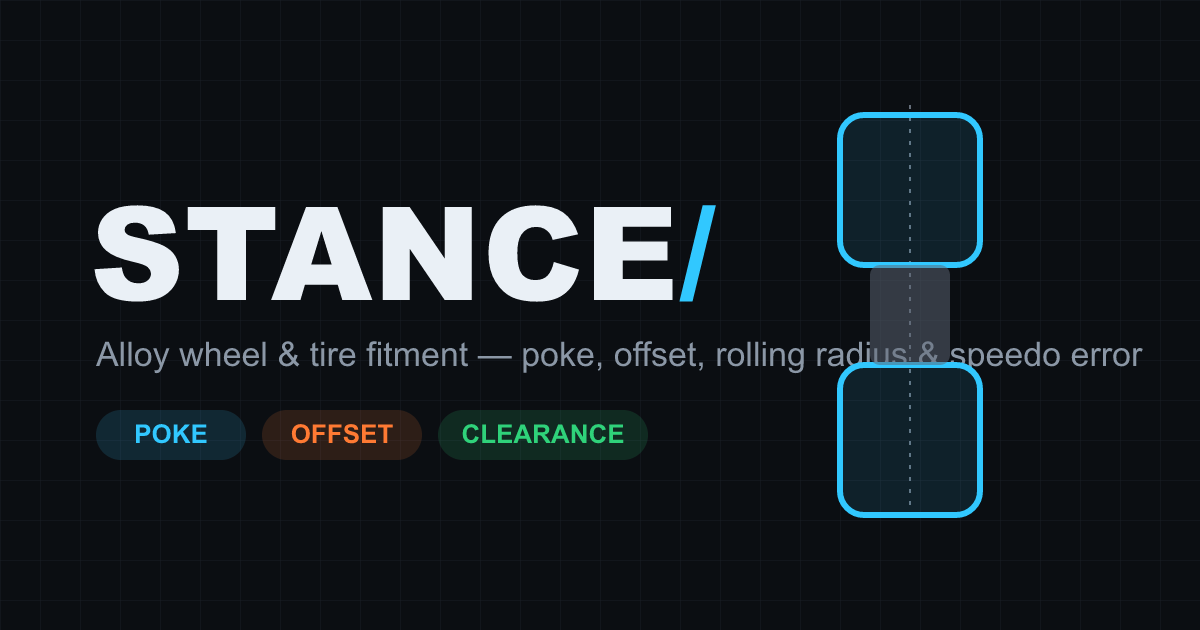
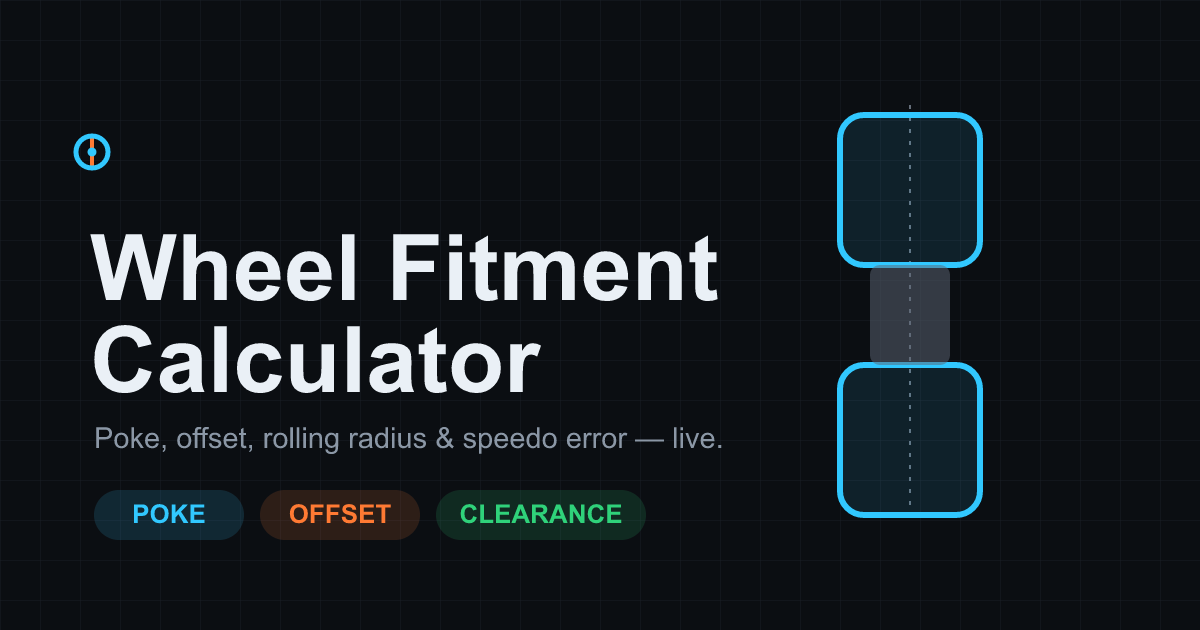
De-brand: replace STANCE wordmark with plain "Wheel Fitment Calculator"
Owner decision — keep scope to just the calculator, kept utilitarian; drop the
flashy STANCE brand and the visualizer endgame.

- Header: quiet system-sans title + small wheel glyph, dropping the condensed
  uppercase STANCE wordmark and cyan slash
- Title/OG/Twitter/JSON-LD name: STANCE removed, plain descriptive name
- Body/FAQ copy: "STANCE" as a product subject reworded to "This calculator"/"It"
- og-image.svg/png: redesigned with a plain two-line title, re-rendered 1200x630
- README + llms.txt titles de-branded
- CLAUDE.md: naming/direction note (visualizer shelved), design-system + roadmap updates

Changed region(s): [[0.0617, 0.5127, 0.9558, 0.8746], [0.0617, 0.3016, 0.6167, 0.4825], [0.0617, 0.2111, 0.0925, 0.2714]]

diff --git a/index.html b/index.html
@@ -4,25 +4,25 @@
 <meta name="viewport" content="width=device-width, initial-scale=1">
 <meta name="description" content="Free wheel &amp; tire fitment calculator. Compare two setups and see poke, offset (ET), inset, rolling diameter, ride-height change and speedometer error update live.">
 <meta name="robots" content="index, follow, max-image-preview:large">
-<title>Wheel &amp; Tire Fitment Calculator — Poke, Offset &amp; Speedo | STANCE</title>
+<title>Wheel &amp; Tire Fitment Calculator — Poke, Offset &amp; Speedo Error</title>
 <link rel="canonical" href="https://wheelfitmentcalculator.com/">
 <link rel="icon" href="/favicon.svg" type="image/svg+xml">
 <meta name="theme-color" content="#0b0e12" media="(prefers-color-scheme: dark)">
 <meta name="theme-color" content="#e9edf2" media="(prefers-color-scheme: light)">
 <meta property="og:type" content="website">
-<meta property="og:site_name" content="STANCE">
-<meta property="og:title" content="STANCE — Wheel &amp; Tire Fitment Calculator">
+<meta property="og:site_name" content="Wheel Fitment Calculator">
+<meta property="og:title" content="Wheel &amp; Tire Fitment Calculator">
 <meta property="og:description" content="Compare two wheel setups and see poke, offset (ET), inset, rolling diameter, ride-height change and speedometer error update live.">
 <meta property="og:url" content="https://wheelfitmentcalculator.com/">
 <meta property="og:image" content="https://wheelfitmentcalculator.com/og-image.png">
 <meta property="og:image:width" content="1200">
 <meta property="og:image:height" content="630">
-<meta property="og:image:alt" content="STANCE wheel and tire fitment calculator — cross-section diagram showing poke, offset and clearance.">
+<meta property="og:image:alt" content="Wheel and tire fitment calculator — cross-section diagram showing poke, offset and clearance.">
 <meta name="twitter:card" content="summary_large_image">
-<meta name="twitter:title" content="STANCE — Wheel &amp; Tire Fitment Calculator">
+<meta name="twitter:title" content="Wheel &amp; Tire Fitment Calculator">
 <meta name="twitter:description" content="Compare two wheel setups and see poke, offset (ET), inset, rolling diameter, ride-height change and speedometer error update live.">
 <meta name="twitter:image" content="https://wheelfitmentcalculator.com/og-image.png">
-<meta name="twitter:image:alt" content="STANCE wheel and tire fitment calculator preview.">
+<meta name="twitter:image:alt" content="Wheel and tire fitment calculator preview.">
 <style>
   :root {
     --ground: #0b0e12; --surface: #141922; --surface-2: #1b212c; --line: #28303b; --line-soft: #1e2530;
@@ -70,10 +70,11 @@
   .wrap { max-width: 1120px; margin: 0 auto; padding: 28px 20px 64px; }
 
   header { display: flex; align-items: flex-end; justify-content: space-between; gap: 16px; flex-wrap: wrap; margin-bottom: 22px; }
-  .brand { display: flex; align-items: baseline; gap: 12px; }
-  .wordmark { font-family: var(--font-cond); font-weight: 800; text-transform: uppercase; letter-spacing: 0.02em; font-size: clamp(34px, 7vw, 52px); line-height: 0.9; margin: 0; }
-  .wordmark .slash { color: var(--new); }
-  .tagline { color: var(--ink-dim); font-size: 13px; max-width: 34ch; letter-spacing: 0.01em; }
+  .brand { display: flex; align-items: center; gap: 13px; }
+  .brand-mark { width: 34px; height: 34px; flex: none; }
+  .brand-text { display: flex; flex-direction: column; gap: 3px; }
+  .site-title { font-family: var(--font-ui); font-weight: 700; font-size: clamp(20px, 3.4vw, 26px); letter-spacing: -0.01em; line-height: 1.05; margin: 0; color: var(--ink); }
+  .tagline { color: var(--ink-dim); font-size: 13px; max-width: 48ch; letter-spacing: 0.01em; }
   .tagline strong { color: var(--ink); font-weight: 600; }
   .head-actions { display: flex; gap: 8px; align-items: center; flex-wrap: wrap; }
 
@@ -192,7 +193,7 @@
 
   /* accessibility / heading resets */
   .sr-only { position: absolute; width: 1px; height: 1px; padding: 0; margin: -1px; overflow: hidden; clip: rect(0,0,0,0); white-space: nowrap; border: 0; }
-  h1.wordmark, h2.card-title { margin: 0; }
+  h2.card-title { margin: 0; }
   h2.gloss-head { margin: 0 0 12px; }
 
   /* long-form content sections (SEO / AEO copy) */
@@ -226,8 +227,15 @@
 <div class="wrap">
   <header>
     <div class="brand">
-      <h1 class="wordmark">Stance<span class="slash">/</span><span class="sr-only"> — free wheel &amp; tire fitment calculator</span></h1>
-      <p class="tagline"><strong>Alloy wheel &amp; tire fitment.</strong> Poke, clearance, rolling radius &amp; speedometer error — live as you dial it in.</p>
+      <svg class="brand-mark" viewBox="0 0 32 32" aria-hidden="true" focusable="false">
+        <line x1="16" y1="4" x2="16" y2="28" stroke="var(--existing)" stroke-width="2.2"/>
+        <circle cx="16" cy="16" r="8.5" fill="none" stroke="var(--new)" stroke-width="3"/>
+        <circle cx="16" cy="16" r="2.2" fill="var(--new)"/>
+      </svg>
+      <div class="brand-text">
+        <h1 class="site-title">Wheel Fitment Calculator</h1>
+        <p class="tagline">Compare two setups — poke, clearance, rolling radius &amp; speedometer error, live as you dial it in.</p>
+      </div>
     </div>
     <div class="head-actions">
       <div class="seg" id="units" role="group" aria-label="Units">
@@ -322,7 +330,7 @@
   <div class="content">
     <section class="panel prose" id="how">
       <h2>How the wheel &amp; tire fitment calculator works</h2>
-      <p class="lead">STANCE compares two wheel-and-tire setups and shows exactly how the new one changes your car's stance, clearance and speedometer reading. Every number updates live from standard fitment geometry — no guesswork. Here are the formulas it uses (lengths in millimeters; 1 inch = 25.4 mm). Outside North America a tire is spelled <em>tyre</em>, but the math is identical.</p>
+      <p class="lead">This calculator compares two wheel-and-tire setups and shows exactly how the new one changes your car's stance, clearance and speedometer reading. Every number updates live from standard fitment geometry — no guesswork. Here are the formulas it uses (lengths in millimeters; 1 inch = 25.4 mm). Outside North America a tire is spelled <em>tyre</em>, but the math is identical.</p>
 
       <h3>Poke and inset — how far the wheel sits out or in</h3>
       <div class="formula"><b>Poke</b> = (rim width in inches × 25.4 ÷ 2) − offset (ET)</div>
@@ -333,7 +341,7 @@
       <div class="formula"><b>Rolling diameter</b> = (rim diameter in inches × 25.4) + 2 × (tire width × profile ÷ 100)</div>
       <div class="formula"><b>Rolling radius</b> = rolling diameter ÷ 2 &nbsp;·&nbsp; <b>Circumference</b> = rolling diameter × π</div>
       <p>A tire's profile (aspect ratio) is its sidewall height as a percentage of its section width, so a 225/45 tire has a sidewall of 225 × 0.45 = 101.25 mm.</p>
-      <p class="note-inline">STANCE uses the standard rolling-diameter formula (rim + twice the sidewall). It does <strong>not</strong> apply a tire-stretch adjustment, so overall-diameter figures can differ by a few millimeters from a heavily stretched fitment. Poke, inset, offset, ride-height and speedometer figures are exact.</p>
+      <p class="note-inline">This calculator uses the standard rolling-diameter formula (rim + twice the sidewall). It does <strong>not</strong> apply a tire-stretch adjustment, so overall-diameter figures can differ by a few millimeters from a heavily stretched fitment. Poke, inset, offset, ride-height and speedometer figures are exact.</p>
 
       <h3>Ride-height change</h3>
       <div class="formula"><b>Ride-height change</b> = (new rolling diameter − old rolling diameter) ÷ 2</div>
@@ -354,7 +362,7 @@
         </details>
         <details class="faq-item">
           <summary>What is wheel poke?</summary>
-          <div class="faq-a"><p>Poke is how far the outer face of the wheel and tire sticks out past the hub mounting face. More poke gives a more aggressive stance but raises the chance of the tire catching the fender. STANCE calculates it as <code>poke = (rim width in inches × 25.4 ÷ 2) − offset (ET)</code>.</p></div>
+          <div class="faq-a"><p>Poke is how far the outer face of the wheel and tire sticks out past the hub mounting face. More poke gives a more aggressive stance but raises the chance of the tire catching the fender. It's calculated as <code>poke = (rim width in inches × 25.4 ÷ 2) − offset (ET)</code>.</p></div>
         </details>
         <details class="faq-item">
           <summary>What does offset (ET) mean?</summary>
@@ -362,7 +370,7 @@
         </details>
         <details class="faq-item">
           <summary>What's the difference between offset and backspacing (inset)?</summary>
-          <div class="faq-a"><p>Offset is measured from the wheel's centerline, while inset — also called backspacing — is measured from the inner lip and tells you how much room the wheel needs before it hits the strut, spring or control arm. STANCE shows both at once so you can check outer stance and inner clearance together.</p></div>
+          <div class="faq-a"><p>Offset is measured from the wheel's centerline, while inset — also called backspacing — is measured from the inner lip and tells you how much room the wheel needs before it hits the strut, spring or control arm. This calculator shows both at once so you can check outer stance and inner clearance together.</p></div>
         </details>
         <details class="faq-item">
           <summary>How does tire size affect my speedometer?</summary>
@@ -370,7 +378,7 @@
         </details>
         <details class="faq-item">
           <summary>What is tire stretch, and does this calculator account for it?</summary>
-          <div class="faq-a"><p>Tire stretch is mounting a narrower tire on a wider rim so the sidewall pulls inward at an angle. STANCE uses the standard rolling-diameter formula (rim + twice the sidewall) and does not model stretch, so overall-diameter numbers can differ by a few millimeters on a heavily stretched setup. Poke, inset, offset, ride-height and speedometer figures are unaffected and exact.</p></div>
+          <div class="faq-a"><p>Tire stretch is mounting a narrower tire on a wider rim so the sidewall pulls inward at an angle. This calculator uses the standard rolling-diameter formula (rim + twice the sidewall) and does not model stretch, so overall-diameter numbers can differ by a few millimeters on a heavily stretched setup. Poke, inset, offset, ride-height and speedometer figures are unaffected and exact.</p></div>
         </details>
         <details class="faq-item">
           <summary>How do I calculate rolling diameter and rolling radius?</summary>
@@ -378,11 +386,11 @@
         </details>
         <details class="faq-item">
           <summary>Will bigger wheels change my ride height?</summary>
-          <div class="faq-a"><p>Only overall rolling diameter changes ride height, not rim size on its own. If you go up an inch in wheel but drop the tire profile to keep the same rolling diameter ("plus sizing"), ride height stays the same. STANCE reports the ride-height change as half the difference in rolling diameter between your two setups.</p></div>
+          <div class="faq-a"><p>Only overall rolling diameter changes ride height, not rim size on its own. If you go up an inch in wheel but drop the tire profile to keep the same rolling diameter ("plus sizing"), ride height stays the same. This calculator reports the ride-height change as half the difference in rolling diameter between your two setups.</p></div>
         </details>
         <details class="faq-item">
           <summary>Is this wheel fitment calculator free?</summary>
-          <div class="faq-a"><p>Yes. STANCE is a free, browser-based wheel and tire fitment calculator with no sign-up and no app to install. It works on desktop and mobile, in metric or imperial units, and nothing you enter ever leaves your browser.</p></div>
+          <div class="faq-a"><p>Yes. This is a free, browser-based wheel and tire fitment calculator with no sign-up and no app to install. It works on desktop and mobile, in metric or imperial units, and nothing you enter ever leaves your browser.</p></div>
         </details>
         <details class="faq-item">
           <summary>Does it work in inches and metric?</summary>
@@ -410,7 +418,7 @@
 {
   "@context": "https://schema.org",
   "@type": "WebApplication",
-  "name": "STANCE — Wheel & Tire Fitment Calculator",
+  "name": "Wheel & Tire Fitment Calculator",
   "url": "https://wheelfitmentcalculator.com/",
   "description": "Free wheel and tire fitment calculator. Compare two setups and see poke, offset (ET), inset, rolling diameter, ride-height change and speedometer error update live, with a technical cross-section diagram.",
   "applicationCategory": "UtilitiesApplication",
@@ -437,12 +445,12 @@
     { "@type": "Question", "name": "Will these wheels fit my car?", "acceptedAnswer": { "@type": "Answer", "text": "This calculator estimates how a new wheel and tire setup changes poke, inner clearance, rolling diameter and speedometer accuracy versus your current setup — the fastest way to compare two fitments side by side. It can't guarantee a fit on its own: real-world clearance also depends on your bolt pattern, center bore, suspension, camber, fender rolling and ride height. Always confirm those, plus the tire's load rating, before buying." } },
     { "@type": "Question", "name": "What is wheel poke?", "acceptedAnswer": { "@type": "Answer", "text": "Poke is how far the outer face of the wheel and tire sticks out past the hub mounting face. More poke gives a more aggressive stance but raises the chance of the tire catching the fender. It is calculated as poke = (rim width in inches × 25.4 ÷ 2) − offset (ET)." } },
     { "@type": "Question", "name": "What does offset (ET) mean?", "acceptedAnswer": { "@type": "Answer", "text": "Offset, stamped ET on a wheel, is the distance in millimeters between the wheel's mounting face and its true centerline. A higher ET tucks the wheel further under the car; a lower or negative ET pushes it outward for more poke. Offset is the single biggest factor in how a wheel sits in the arch." } },
-    { "@type": "Question", "name": "What's the difference between offset and backspacing (inset)?", "acceptedAnswer": { "@type": "Answer", "text": "Offset is measured from the wheel's centerline, while inset — also called backspacing — is measured from the inner lip and tells you how much room the wheel needs before it hits the strut, spring or control arm. STANCE shows both at once so you can check outer stance and inner clearance together." } },
+    { "@type": "Question", "name": "What's the difference between offset and backspacing (inset)?", "acceptedAnswer": { "@type": "Answer", "text": "Offset is measured from the wheel's centerline, while inset — also called backspacing — is measured from the inner lip and tells you how much room the wheel needs before it hits the strut, spring or control arm. This calculator shows both at once so you can check outer stance and inner clearance together." } },
     { "@type": "Question", "name": "How does tire size affect my speedometer?", "acceptedAnswer": { "@type": "Answer", "text": "Your speedometer is calibrated to the rolling circumference of the original tire. A larger-diameter tire covers more ground per revolution, so the car goes faster than the speedometer reads; a smaller tire makes it read high. The calculator shows the exact speedometer error percentage and your true speed at any indicated speed." } },
-    { "@type": "Question", "name": "What is tire stretch, and does this calculator account for it?", "acceptedAnswer": { "@type": "Answer", "text": "Tire stretch is mounting a narrower tire on a wider rim so the sidewall pulls inward at an angle. STANCE uses the standard rolling-diameter formula (rim + twice the sidewall) and does not model stretch, so overall-diameter numbers can differ by a few millimeters on a heavily stretched setup. Poke, inset, offset, ride-height and speedometer figures are unaffected and exact." } },
+    { "@type": "Question", "name": "What is tire stretch, and does this calculator account for it?", "acceptedAnswer": { "@type": "Answer", "text": "Tire stretch is mounting a narrower tire on a wider rim so the sidewall pulls inward at an angle. This calculator uses the standard rolling-diameter formula (rim + twice the sidewall) and does not model stretch, so overall-diameter numbers can differ by a few millimeters on a heavily stretched setup. Poke, inset, offset, ride-height and speedometer figures are unaffected and exact." } },
     { "@type": "Question", "name": "How do I calculate rolling diameter and rolling radius?", "acceptedAnswer": { "@type": "Answer", "text": "Rolling diameter = (rim diameter in inches × 25.4) + 2 × (tire width × profile ÷ 100), and rolling radius is half of that. For example, a 225/45 R17 tire measures 17 × 25.4 + 2 × (225 × 0.45) = 431.8 + 202.5 = 634.3 mm in diameter." } },
-    { "@type": "Question", "name": "Will bigger wheels change my ride height?", "acceptedAnswer": { "@type": "Answer", "text": "Only overall rolling diameter changes ride height, not rim size on its own. If you go up an inch in wheel but drop the tire profile to keep the same rolling diameter (plus sizing), ride height stays the same. STANCE reports the ride-height change as half the difference in rolling diameter between your two setups." } },
-    { "@type": "Question", "name": "Is this wheel fitment calculator free?", "acceptedAnswer": { "@type": "Answer", "text": "Yes. STANCE is a free, browser-based wheel and tire fitment calculator with no sign-up and no app to install. It works on desktop and mobile, in metric or imperial units, and nothing you enter ever leaves your browser." } },
+    { "@type": "Question", "name": "Will bigger wheels change my ride height?", "acceptedAnswer": { "@type": "Answer", "text": "Only overall rolling diameter changes ride height, not rim size on its own. If you go up an inch in wheel but drop the tire profile to keep the same rolling diameter (plus sizing), ride height stays the same. This calculator reports the ride-height change as half the difference in rolling diameter between your two setups." } },
+    { "@type": "Question", "name": "Is this wheel fitment calculator free?", "acceptedAnswer": { "@type": "Answer", "text": "Yes. This is a free, browser-based wheel and tire fitment calculator with no sign-up and no app to install. It works on desktop and mobile, in metric or imperial units, and nothing you enter ever leaves your browser." } },
     { "@type": "Question", "name": "Does it work in inches and metric?", "acceptedAnswer": { "@type": "Answer", "text": "Yes — switch between metric (millimeters, km/h) and imperial (inches, mph) at the top of the page. Enter wheel widths and offsets in the units printed on the wheel and every result updates instantly. Outside North America, tire is spelled tyre and this tyre size calculator works exactly the same." } }
   ]
 }

diff --git a/CLAUDE.md b/CLAUDE.md
@@ -5,9 +5,15 @@ A live alloy wheel & tire fitment calculator. Single self-contained `index.html`
 the file in a browser.
 
 **Origin:** built to be a better-looking, more useful version of
-`willtheyfit.com` (Driftworks' fitment calculator). Long-term product idea is a
-wheel *visualizer* ("see these wheels on my car"); this calculator is the first
-shippable piece and the geometry engine the visualizer will reuse.
+`willtheyfit.com` (Driftworks' fitment calculator).
+
+**Naming / direction (updated 2026-07-22):** the public site is now plainly named
+**"Wheel Fitment Calculator"** (matches the domain) — the old flashy "STANCE"
+wordmark was **removed on purpose**. "stance" survives only as the repo/folder name
+and codename. The earlier wheel-*visualizer* endgame ("see these wheels on my car")
+is **shelved by owner decision**: scope is deliberately just this calculator, kept
+utilitarian rather than a brand. Don't reintroduce STANCE branding or the visualizer
+without a fresh ask.
 
 ## Current state (done)
 - Two setups (Current / New) with live inputs — no "Calculate" button.
@@ -37,8 +43,9 @@ shippable piece and the geometry engine the visualizer will reuse.
   never move it into JS.
 - **Structured data:** JSON-LD `WebApplication` + `FAQPage` (before the main `<script>`).
   FAQPage answer text mirrors the visible FAQ — if you edit one, edit both.
-- **Headings:** enriched H1 (visually-hidden keyword tail), visible H2s on the setup cards
-  + glossary, `sr-only` H2s on the verdict/diagram/results panels for a clean outline.
+- **Headings:** H1 is the literal keyword "Wheel Fitment Calculator" (the site title
+  itself), visible H2s on the setup cards + glossary, `sr-only` H2s on the
+  verdict/diagram/results panels for a clean outline.
 - **Meta:** keyword-rich `<title>`, `robots` meta (`max-image-preview:large`),
   OG/Twitter with `og-image.png` + width/height/alt.
 - **robots.txt:** explicitly allows search + AI/answer-engine crawlers (GPTBot, ClaudeBot,
@@ -80,8 +87,10 @@ their site (hold tyre fixed, step rim width 6→10J; then step profile) and refi
   **`--new` electric cyan `#31c8ff` = new setup**. `--hl` gold `#ffcf40` = the
   measurement-highlight colour.
 - Verdict semantics separate: `--ok/--warn/--bad`.
-- Type: condensed uppercase for wordmark/labels, **monospace tabular** for all
-  numbers, system sans for UI. Fonts are system stacks (Artifact CSP blocks font CDNs).
+- Type: **quiet system-sans site title** ("Wheel Fitment Calculator" + a small wheel
+  glyph — de-branded from the old condensed-uppercase STANCE wordmark, 2026-07-22);
+  condensed uppercase for section labels/badges; **monospace tabular** for all numbers;
+  system sans for UI. Fonts are system stacks (Artifact CSP blocks font CDNs).
 
 ## Deploy
 - GitHub: https://github.com/smnmnssn/stance.git  (branch `main`)
@@ -102,10 +111,11 @@ their site (hold tyre fixed, step rim width 6→10J; then step profile) and refi
 - [x] `og-image.png` — real 1200×630 PNG rendered from the SVG (with width/height/alt meta).
 - [x] JSON-LD (`WebApplication` + `FAQPage`), semantic headings, `#how` + `#faq` copy, `llms.txt`, AI-crawler allows in `robots.txt`.
 - [x] American-English primary spelling with British "tyre" woven in for UK/AU search.
+- [x] De-branded (2026-07-22): removed the STANCE wordmark; site is now plainly "Wheel Fitment Calculator" across the header, `<title>`, OG image and JSON-LD.
 - [ ] Submit `sitemap.xml` to Google Search Console after deploy (manual — owner's account).
 - [ ] Off-page: backlinks from car forums / Reddit / enthusiast communities (the real ranking lever vs willtheyfit.com).
 - [ ] Analytics: GoatCounter snippet is in `index.html` (commented out) — sign up, add site code, uncomment. Plausible is an alternative.
 - [ ] Optional: make the share link remember the metric/imperial choice.
 - [ ] Fitment verdict thresholds are a placeholder heuristic; a real "will it rub"
       needs fender/suspension data (the data-moat problem).
-- [ ] Bigger picture: the "upload a photo of your car" visualizer, built on this engine.
+- [~] Visualizer endgame ("upload a photo of your car") — **shelved** by owner decision (2026-07-22); scope is deliberately just the calculator. Don't resume without a fresh ask.

diff --git a/README.md b/README.md
@@ -1,4 +1,4 @@
-# STANCE — Wheel & Tire Fitment Calculator
+# Wheel & Tire Fitment Calculator
 
 Live at **https://wheelfitmentcalculator.com/**
 